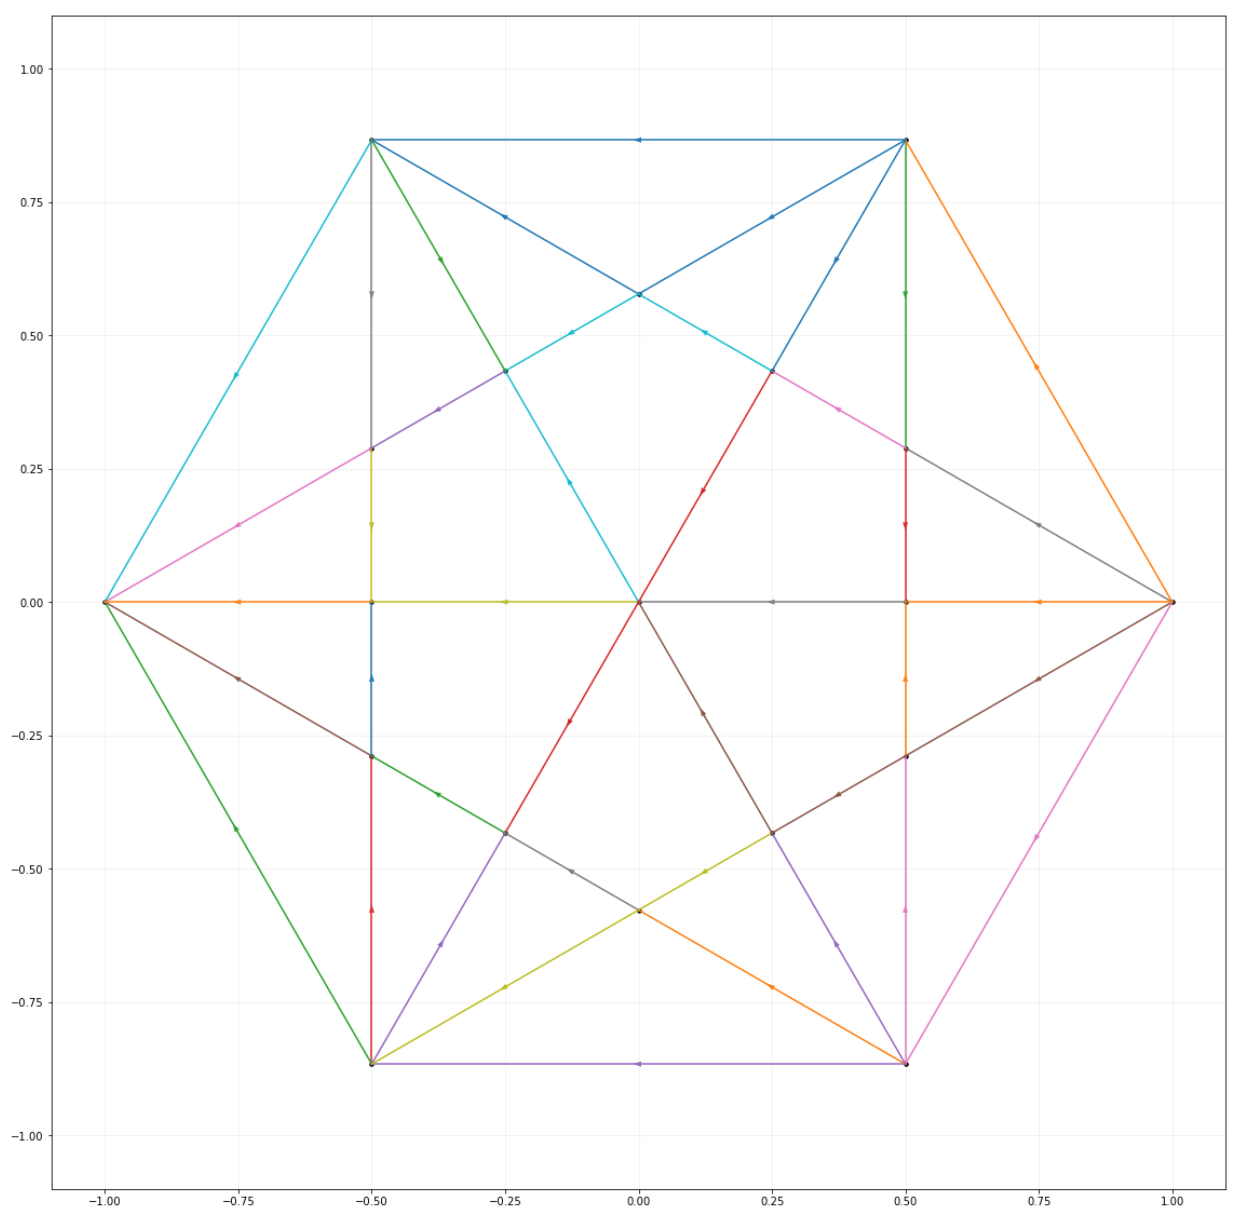
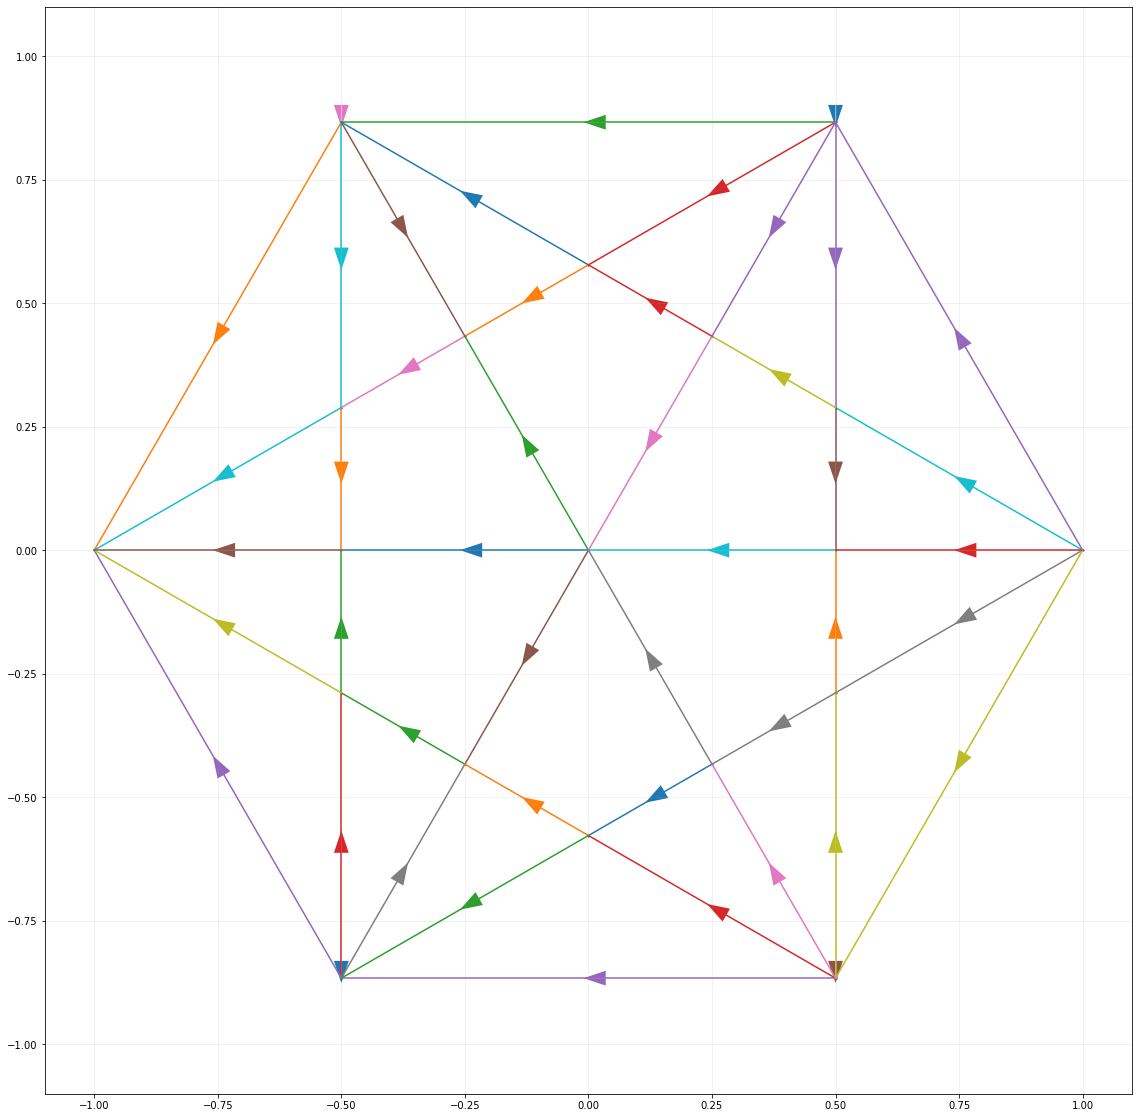
Add GetAdjacencyList

diff --git a/go/solve.go b/go/solve.go
@@ -24,6 +24,8 @@ type Point struct {
 }
 
 type LineToPoints = map[LineSegment]mapset.Set[Point]
+type PointToLines = map[Point]mapset.Set[LineSegment]
+type AdjacencyList = map[Point]mapset.Set[Point]
 
 type ByXY []Point
 
@@ -36,7 +38,13 @@ func (a ByXY) Swap(i, j int) {
 }
 
 func (a ByXY) Less(i, j int) bool {
-	return a[i].x < a[j].x && a[i].y < a[j].y
+	if a[i].x < a[j].x {
+		return true
+	} else if a[i].x > a[j].x {
+		return false
+	} else {
+		return a[i].y < a[j].y
+	}
 }
 
 func almostEqual(a, b float64) bool {
@@ -53,17 +61,26 @@ func FromIntersection(L1, L2 LineSegment) (Point, error) {
 	Dx := c1*b2 - b1*c2
 	Dy := a1*c2 - c1*a2
 
+	var pt Point
 	if D != 0 {
 		s := Dx / D
 		t := Dy / D
 
 		if !(0 <= s && s <= 1 && 0 <= t && t <= 1) {
-			return Point{0, 0}, errors.New("no intersection found")
+			return pt, errors.New("no intersection found")
 		} else {
-			return (Point{(1-s)*L1.p1.x + s*L1.p2.x, (1-s)*L1.p1.y + s*L1.p2.y}), nil
+			x := (1-s)*L1.p1.x + s*L1.p2.x
+			y := (1-s)*L1.p1.y + s*L1.p2.y
+			if almostEqual(x, 0) {
+				x = 0
+			}
+			if almostEqual(y, 0) {
+				y = 0
+			}
+			return (Point{x, y}), nil
 		}
 	} else {
-		return Point{0, 0}, errors.New("no intersection found")
+		return pt, errors.New("no intersection found")
 	}
 }
 
@@ -137,55 +154,51 @@ func (ps PolygonSolver) LineSegments() []LineSegment {
 }
 
 func (ps PolygonSolver) GetLineToPoints() LineToPoints {
+	// Returns the map of unbroken line segments to points on the line segments
 	// TODO: Make concurrent
 	lineToPoints := make(LineToPoints)
 	lines := ps.LineSegments()
+	// First add both known polygon points onto the line
 	for _, line := range lines {
 		lineToPoints[line] = mapset.NewSet(line.p1, line.p2)
 	}
 
+	// Intersect all line segments
 	c := combin.Combinations(len(lines), 2)
 	for _, v := range c {
-		start, end := lines[v[0]], lines[v[1]]
-		point, err := FromIntersection(start, end)
+		first, second := lines[v[0]], lines[v[1]]
+		point, err := FromIntersection(first, second)
 
 		if err == nil {
-			lineToPoints[start].Add(point)
-			lineToPoints[end].Add(point)
+			lineToPoints[first].Add(point)
+			lineToPoints[second].Add(point)
 		}
 	}
 	return lineToPoints
 }
 
-func (ps PolygonSolver) GetAdjacencyList() map[Point]LineSegment {
-	// Returns the adjacency list of the graph for every vertex (which has both polygon vertices and
-	// intersection points).
-	var adjacencyList map[Point]LineSegment
-	return adjacencyList
-}
-
-func (ps PolygonSolver) GetBrokenLineSegments(lineToPoints LineToPoints) mapset.Set[LineSegment] {
-	brokenLineSegments := mapset.NewSet[LineSegment]()
-	for line, points := range lineToPoints {
-		// A line segment with only two points on it, is already the smallest possible line segment
-		if points.Cardinality() == 2 {
-			brokenLineSegments.Add(line)
-			continue
-		}
-
+func (ps PolygonSolver) GetAdjacencyList(lineToPoints LineToPoints) AdjacencyList {
+	adjacencyList := make(AdjacencyList)
+	for _, points := range lineToPoints {
 		// Sort all the points on the unbroken line and get each broken line segment
 		sortedPoints := points.ToSlice()
-		sort.Sort(ByXY(sortedPoints))
+		sort.Stable(ByXY(sortedPoints))
 
 		for i := 1; i < len(sortedPoints); i++ {
-			if sortedPoints[i] == sortedPoints[i-1] {
-				continue
+			if _, ok := adjacencyList[sortedPoints[i]]; ok {
+				adjacencyList[sortedPoints[i]].Add(sortedPoints[i-1])
+			} else {
+				adjacencyList[sortedPoints[i]] = mapset.NewSet(sortedPoints[i-1])
 			}
-			edge := LineSegment{sortedPoints[i], sortedPoints[i-1]}
-			brokenLineSegments.Add(edge)
+
+			if _, ok := adjacencyList[sortedPoints[i-1]]; ok {
+				adjacencyList[sortedPoints[i-1]].Add(sortedPoints[i])
+			} else {
+				adjacencyList[sortedPoints[i-1]] = mapset.NewSet(sortedPoints[i])
+			}
 		}
 	}
-	return brokenLineSegments
+	return adjacencyList
 }
 
 func main() {
@@ -197,12 +210,10 @@ func main() {
 	// fmt.Println(someLineSegment.Mid())
 	// fmt.Println(someLineSegment.Direction(someLineSegment.p1))
 	// fmt.Println(someLineSegment.OtherEnd(someLineSegment.p1))
-	// required := mapset.NewSet[string]()
-	// required.Add("biology")
-	// fmt.Println(required)
 	polygonSolver := PolygonSolver{6}
 	lineToPoints := polygonSolver.GetLineToPoints()
-	fmt.Println((polygonSolver.GetBrokenLineSegments(lineToPoints)))
+	// fmt.Println(lineToPoints)
+	fmt.Println((polygonSolver.GetAdjacencyList(lineToPoints)))
 }
 
 // Create all the polygon nodes
@@ -216,9 +227,30 @@ func main() {
 
 // }
 
-// Create one goroutine. This goroutine will spawn more goroutines and pass its result to it
-// Infinite loop and select statement, wait until received values on all channels, take sum, then send
+// Approach One: Publish to all relevant channels
+// Each vertex has its own buffered channel. When the buffered channel is full, the goroutine kicks off.
+// At the end of the goroutine, it writes to all buffered channels that requires its result.
+// The goroutine needs to take in:
+// 1. Its input buffered channel where it will read from
+// 2. The slice of output buffered channels it needs to write to
+// The benefit is that we don't have to topo-sort ahead of time, everything just works as-is.
+// You can delegate the responsibility of sending the message to the primary goroutine in a pub-sub model.
+// The pub-sub model can allow for symmetry to be handled inside the primary goroutine.
+
+// Approach Two:
+// 1. Topological sort on the nodes
+// 2. Create a queue with these nodes
+// 3. Create a pool of worker nodes
+// 4. When a task is done, the goroutine sends its output on a single channel.
+// 5. The queue processor maintains a single channel and stores the output. It spins up new goroutines when they can be calculated.
+// 6. An indegrees array is maintained to trigger the spinning up of new goroutines.
+
+// Optimisations
+// 1. We can discard the values of earlier nodes once they are no longer required
 
 // Improvements to be made:
 // 1. Using goroutines to speed up processing by saturating available cores
-// 2. Using bottom-up dynamic programming to avoid hitting the recursion limit
+// 2. Using bottom-up dynamic programming and avoiding the recursion limit
+// 3. Using symmetry to reduce duplicate calculations
+
+//

diff --git a/python/solve.py b/python/solve.py
@@ -249,7 +249,7 @@ class PolygonSolver:
         self.create_line_segments()
 
         if plot:
-            self.plot_polygon_graph(**kwargs)
+            self.plot_graph(**kwargs)
 
     @classmethod
     def find_next_coordinate(self, xy: tuple[Decimal, Decimal], t: Decimal) -> "Point":
@@ -337,8 +337,6 @@ class PolygonSolver:
             )
 
             for previous, current in zip(sorted_points, sorted_points[1:]):
-                if previous == current:
-                    continue
                 edge = LineSegment(previous, current)
                 line_segments.add(edge)
                 for item in (previous, current):
@@ -351,7 +349,7 @@ class PolygonSolver:
         self.point_ls = point_ls
         return None
 
-    def plot_polygon_graph(
+    def plot_graph(
         self,
         figsize: int = 8,
         lines: bool = True,
@@ -367,7 +365,6 @@ class PolygonSolver:
 
         # Configurations
         limit = 1.1
-        head_width = head_width
         offset = -0.07
 
         _, ax = plt.subplots(figsize=(figsize, figsize))
@@ -381,11 +378,12 @@ class PolygonSolver:
             for line in self.line_segments:
                 color = next(ax._get_lines.prop_cycler)["color"]
                 ax.plot([line.p1.x, line.p2.x], [line.p1.y, line.p2.y], color=color)
+                gradient = line.gradient()
                 plt.arrow(
                     x=line.mid.x,
                     y=line.mid.y,
-                    dx=line.gradient[0],
-                    dy=line.gradient[1],
+                    dx=gradient[0],
+                    dy=gradient[1],
                     lw=0,
                     color=color,
                     length_includes_head=True,
@@ -459,9 +457,7 @@ class PolygonSolver:
 
 @fn_timer
 def main():
-    solver = PolygonSolver(
-        n=6, plot=False, figsize=20, values=False, head_width=0.01, point_size=12
-    )
+    solver = PolygonSolver(n=6, plot=True, figsize=20, values=False)
     solver.check_intersections()
     final = solver.progressive_solve()
     print(final)
